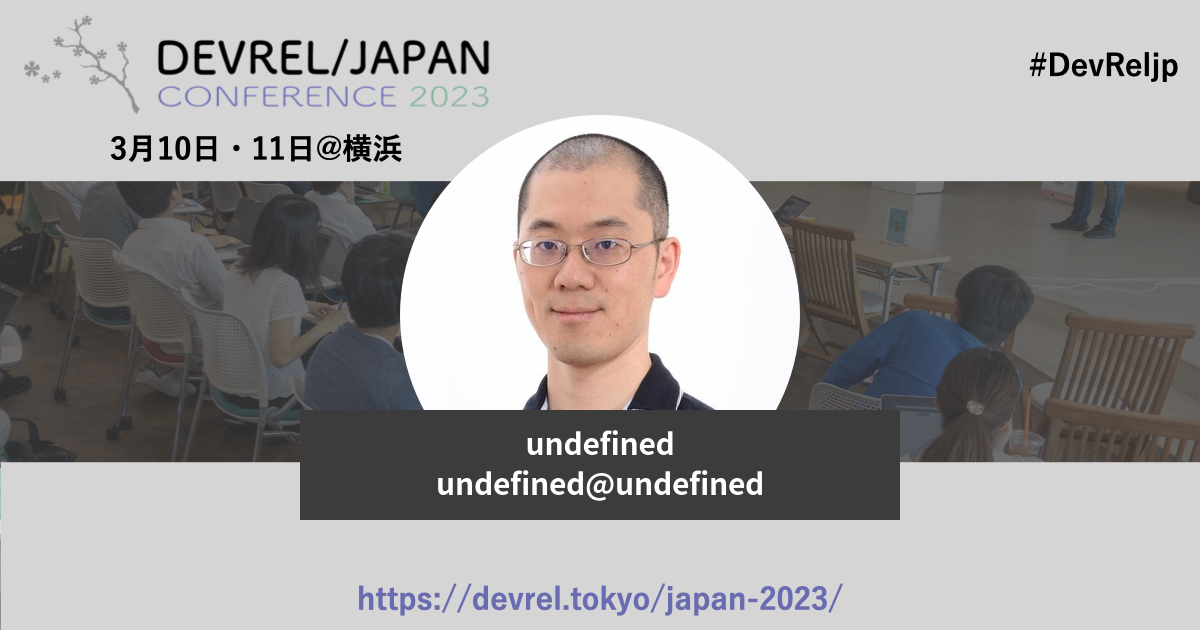
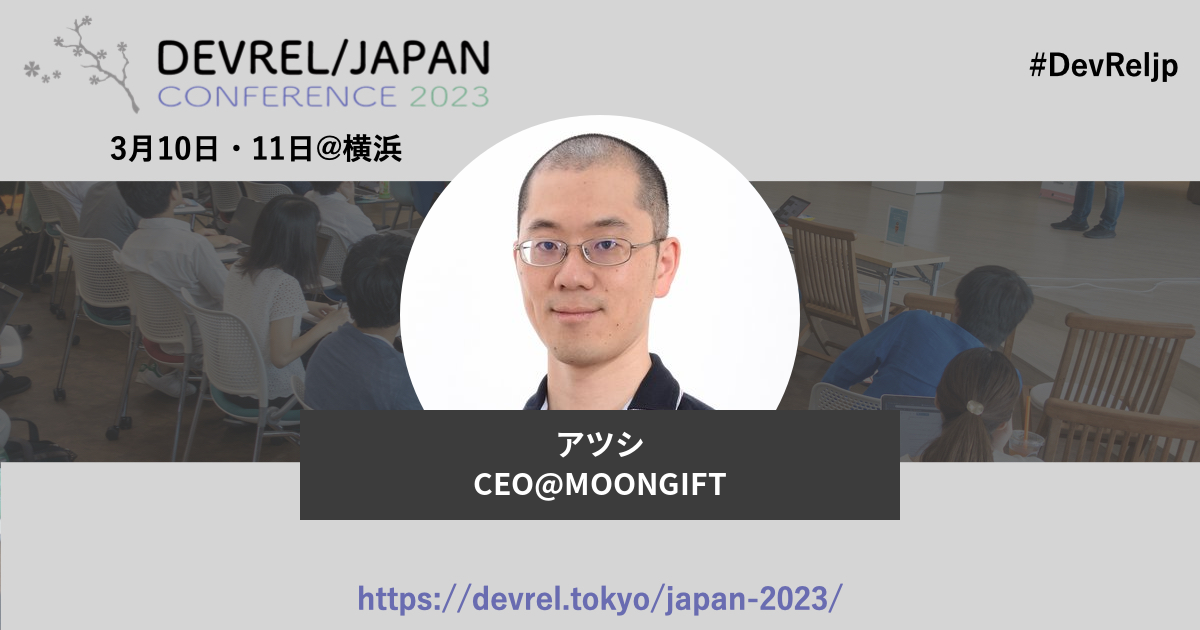
auto update

Changed region(s): [[0.3392, 0.7238, 0.6475, 0.8143], [0.4317, 0.6635, 0.5858, 0.7238]]

diff --git a/organizers/canonno.md b/organizers/canonno.md
@@ -1,7 +1,7 @@
 ---
 layout: person
 permalink: /organizers/canonno/
-title: @
+title: 賀野 壮一朗@Suntory Holdings Limited
 ogp: /japan-2023/image/ogp/canonno.jpg
 type: organizer
 id: canonno

diff --git a/organizers/keiichiro.md b/organizers/keiichiro.md
@@ -1,7 +1,7 @@
 ---
 layout: person
 permalink: /organizers/keiichiro/
-title: @
+title: 野崎 馨一郎@Atlassian
 ogp: /japan-2023/image/ogp/keiichiro.jpg
 type: organizer
 id: keiichiro

diff --git a/organizers/sakutaro.md b/organizers/sakutaro.md
@@ -1,7 +1,7 @@
 ---
 layout: person
 permalink: /organizers/sakutaro/
-title: @
+title: 櫻井 文矢@CARTA HOLDINGS
 ogp: /japan-2023/image/ogp/sakutaro.jpg
 type: organizer
 id: sakutaro

diff --git a/organizers/msato.md b/organizers/msato.md
@@ -1,7 +1,7 @@
 ---
 layout: person
 permalink: /organizers/msato/
-title: @
+title: 佐藤 雅子@ヴァル研究所
 ogp: /japan-2023/image/ogp/msato.jpg
 type: organizer
 id: msato

diff --git a/organizers/shotaro.md b/organizers/shotaro.md
@@ -1,7 +1,7 @@
 ---
 layout: person
 permalink: /organizers/shotaro/
-title: @
+title: 鈴木 章太郎@Elastic
 ogp: /japan-2023/image/ogp/shotaro.jpg
 type: organizer
 id: shotaro

diff --git a/organizers/yasunori.md b/organizers/yasunori.md
@@ -1,7 +1,7 @@
 ---
 layout: person
 permalink: /organizers/yasunori/
-title: @
+title: 木原 康智@Minitt
 ogp: /japan-2023/image/ogp/yasunori.jpg
 type: organizer
 id: yasunori

diff --git a/organizers/odasho.md b/organizers/odasho.md
@@ -1,7 +1,7 @@
 ---
 layout: person
 permalink: /organizers/odasho/
-title: @
+title: おだしょー@mabl Inc.
 ogp: /japan-2023/image/ogp/odasho.jpg
 type: organizer
 id: odasho

diff --git a/organizers/tarotaro.md b/organizers/tarotaro.md
@@ -1,7 +1,7 @@
 ---
 layout: person
 permalink: /organizers/tarotaro/
-title: @
+title: 川下 太郎@Sony
 ogp: /japan-2023/image/ogp/tarotaro.jpg
 type: organizer
 id: tarotaro

diff --git a/organizers/journeyman.md b/organizers/journeyman.md
@@ -1,7 +1,7 @@
 ---
 layout: person
 permalink: /organizers/journeyman/
-title: @
+title: ジャニ@
 ogp: /japan-2023/image/ogp/journeyman.jpg
 type: organizer
 id: journeyman

diff --git a/organizers/atsushi.md b/organizers/atsushi.md
@@ -1,7 +1,7 @@
 ---
 layout: person
 permalink: /organizers/atsushi/
-title: @
+title: アツシ@MOONGIFT
 ogp: /japan-2023/image/ogp/atsushi.jpg
 type: organizer
 id: atsushi

diff --git a/organizers/kazumi.md b/organizers/kazumi.md
@@ -1,7 +1,7 @@
 ---
 layout: person
 permalink: /organizers/kazumi/
-title: @
+title: 岩永 かづみ@
 ogp: /japan-2023/image/ogp/kazumi.jpg
 type: organizer
 id: kazumi

diff --git a/organizers/nori.md b/organizers/nori.md
@@ -1,7 +1,7 @@
 ---
 layout: person
 permalink: /organizers/nori/
-title: @
+title: 鈴木 教之@Microsoft
 ogp: /japan-2023/image/ogp/nori.jpg
 type: organizer
 id: nori
